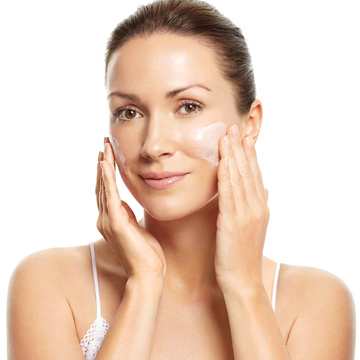
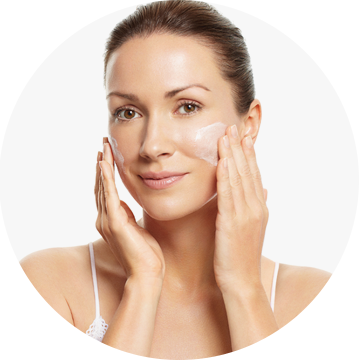
header 완성했다

diff --git a/css/global.css b/css/global.css
@@ -44,6 +44,10 @@ header .menuArea, .technologyArea, .wiseChoiceArea,.reviewArea .reviewContentsAr
  footer
 {width: calc(100% - 80px); max-width: 1200px; margin: 0 auto;}
 
+@media screen and (min-width: 801px){
+    .introduceFigureArea{width: calc(100% - 80px); max-width: 1200px; margin: 0 auto;}
+}
+
 .MobileImg{display: none !important;}
 
 /* .technologyArea, .wiseChoiceArea,.reviewArea .reviewContentsArea, .selfBeautyArea ul
@@ -58,7 +62,7 @@ header .menuArea, .technologyArea, .wiseChoiceArea,.reviewArea .reviewContentsAr
 
 /* 메인관련 */
 /* header */
-header{position: relative;}
+header{position: relative; border-bottom: 1px solid #d9d9d9;}
 header .menuArea {display: flex;}
 header .menuArea .mobileMenuArea{display: none;}
 header .menuArea > .menuContentsArea { display: flex; flex: 1; justify-content: space-between; }
@@ -66,14 +70,15 @@ header .menuArea > .menuContentsArea > *:not(nav){padding: 40px 0;}
 header .menuArea h1{height: 130px; display: flex; align-items: center; margin-right: 50px;}
 header .menuArea > .menuContentsArea >nav{}
 header .menuArea > .menuContentsArea >nav:hover + .menuBgArea{height: 245px;}
-header .menuArea > .menuContentsArea >.menuBgArea{position: absolute; left: 0; top: 130px; width: 100%; height: 0; padding: 0; background-color: white; transition-duration: 0.5s; z-index: 10;}
+header .menuArea > .menuContentsArea >.menuBgArea{position: absolute; left: 0; top: 131px; width: 100%; height: 0; padding: 0; background-color: white; transition-duration: 0.5s; z-index: 10;}
+header.mainHeader .menuArea > .menuContentsArea >.menuBgArea{top: 130px;}
 header .menuArea > .menuContentsArea >.menuBgArea:hover{height: 245px;}
 header .menuArea > .menuContentsArea >.menuBgArea.active{height: 245px;}
 header .menuArea > .menuContentsArea >.menuBgArea div{width: 100px; height: 100px; background-color: red; margin-left: 100px;}
 header .menuArea > .menuContentsArea >nav ul{display: flex; height: 100%; align-items: center;}
 header .menuArea > .menuContentsArea >nav ul > li{height: 100%; font-size: 20px; position: relative;}
 header .menuArea > .menuContentsArea >nav ul > li > a{display: flex; height: 100%; align-items: center;  padding: 0 50px;}
-header .menuArea > .menuContentsArea >nav ul > li ol{width: 165px; height: 0px; overflow: hidden; background-color: white; position: absolute; z-index: 11; transition-duration: 0.5s;}
+header .menuArea > .menuContentsArea >nav ul > li ol{width: 165px; height: 0px; overflow: hidden; background-color: white; position: absolute; top: 131px; z-index: 11; transition-duration: 0.5s;}
 header .menuArea > .menuContentsArea >nav ul > li ol li a{font-size: 18px; display: block; text-align: left; padding: 15px 0; padding-left: 50px;}
 @media screen and (min-width: 1101px){
     header .menuArea > .menuContentsArea >nav ul:hover > li ol{height: 245px;}
@@ -192,7 +197,7 @@ p.priceColorPointArea{font-size: 18px; font-weight: 500; color: #ba005f; }
     header .menuArea .mobileMenuArea .hamburgerMenuArea.active span:nth-of-type(1){transform: translateY(17px) rotate(45deg);}
     header .menuArea .mobileMenuArea .hamburgerMenuArea.active span:nth-of-type(2){opacity: 0; transition: 0.1s;}
     header .menuArea .mobileMenuArea .hamburgerMenuArea.active span:nth-of-type(3){transform: translateY(-17px) rotate(135deg);}
-    header .menuArea > .menuContentsArea{position: absolute; top: 130px; left: 0; z-index: 10; width: 100%; background-color: white; flex-direction: column; display: none;}
+    header .menuArea > .menuContentsArea{position: absolute; top: 131px; left: 0; z-index: 10; width: 100%; background-color: white; flex-direction: column; display: none;}
     header .menuArea > .menuContentsArea.active{display: flex;}
     header .menuArea > .menuContentsArea >.menuBgArea{display: none;}
     header .menuArea > .menuContentsArea > *:not(nav){padding: 0;}
@@ -215,12 +220,15 @@ p.priceColorPointArea{font-size: 18px; font-weight: 500; color: #ba005f; }
     header .menuArea > .menuContentsArea .loginArea ul li:last-of-type{margin-left: 18px;}
     header .menuArea > .menuContentsArea .loginArea ul li:not(:first-of-type) a{font-size: 26px;}
 
-
-    .paperArea > div:nth-of-type(2n + 1){width: auto; margin: 0;}
+    .paperArea{width: 100%; max-width: 500px; margin: 0 auto; justify-content: space-between;}
+    .paperArea *{font-size: 22px;}
+    .paperArea > div:nth-of-type(2n + 1){width: 55px; margin: 0;}
 }
 
 @media screen and (max-width: 800px){
-    .productCompositionArea h2{width: calc(100% - 80px);}
+    .navigationArea{font-size: 22px;}
+
+    .productCompositionArea h2,.introduceFigureArea h2, .introduceFigureArea figure figcaption{width: calc(100% - 80px); margin: 0 auto;}
     .productCompositionArea{width: 100%;}
 
     /* .acneCureArea .productCompositionArea h2{width: calc(100% - 80px); margin: 0 auto; margin-bottom: 40px;} */
@@ -246,6 +254,7 @@ p.priceColorPointArea{font-size: 18px; font-weight: 500; color: #ba005f; }
 }
 
 @media screen and (max-width: 640px){
+    .navigationArea{font-size: 3.4375vw; margin:4.6875vw auto 9.0625vw auto;}
 
 /* 컨텐츠 최대 크기 지정 width 1760px*/
 .mainTopBannerArea > a > div, header.mainHeader .menuArea, .videoArea , footer.mainFooter 
@@ -307,7 +316,8 @@ header .menuArea, .technologyArea, .wiseChoiceArea,.reviewArea .reviewContentsAr
     /* header 메뉴 */
     /* 로고 */
     header .menuArea h1{width: 22vw; height: 20vw;}
-    header .menuArea > .menuContentsArea{top: 20vw;}
+    header .menuArea > .menuContentsArea{top: 20.15vw;}
+    header.mainHeader .menuArea > .menuContentsArea{top:20vw;}
     
     header .menuArea .mobileMenuArea .shoppingBasketIcon{background-size: 5.46875vw; padding-left: 8.59375vw;}
     header .menuArea .mobileMenuArea .shoppingBasketIcon span{font-size: 3.4375vw; width: 6.5625vw; height: 6.5625vw;}
@@ -326,6 +336,9 @@ header .menuArea, .technologyArea, .wiseChoiceArea,.reviewArea .reviewContentsAr
     header .menuArea > .menuContentsArea >nav ul > li.active ol li{height: 9.6875vw;}
     header .menuArea > .menuContentsArea >nav ul > li.active ol li a{font-size: 3.7vw;}
 
+
+    .paperArea *{font-size: 3.4375vw;}
+    .paperArea > div:nth-of-type(2n + 1){width: 8.59375vw; margin: 0;}
 
 
     .QnAArea ul li h3{font-size: 3.4375vw; padding-right: 8.28125vw; padding-left: 6.25vw; box-sizing: border-box; letter-spacing: -0.15625vw;}

diff --git a/newsNoticeContents.html b/newsNoticeContents.html
@@ -13,7 +13,7 @@
 </head>
 <body>
     <div>
-        <header class="mainHeader">
+        <header>
             <div class="menuArea">
                 <h1><a href="index.html"><img src="images/main/logo.png" alt="logo"></a></h1>
                 <div class="mobileMenuArea">
@@ -73,19 +73,19 @@
 
         <section class="newsNoticeContentsArea">
             <div class="noticeContentsTitleArea">
-                <h2>2020년 여름 준비도 트리아 제모기와 함께! 회원가에 특별 추가 할인</h2>
+                <h2>2020년 여름 준비도 트리아 제모기와 함께! 회원가에 특별 추가 할인</h2>
                 <span>2020-03-02</span>
             </div>
             <div class="noticeContentsArea">
                 <img src="images/news/newsNoticeContentsImg/noticeContentImg.png" alt="noticeContentImg">
-                <p>트리아뷰티는 광(Light)기반 제품을 가정에서 경험할 수 있도록 도와드립니다.</p>
-                <p>2003년 향후 가정에서 사용할 수 있는 의료기기 관련 업계에 변화를 가져올 것이라는 확신을 가지고, 레이저 전문가들로 팀을 구성하여 트리아뷰티(Tria Beauty)를 설립하였습니다.</p>
-                <p> 편리하고 경제적인 의료기기</p>
-                <p>트리아뷰티 제품은 기술을 가정으로 옮겨와 광(Light)기반 효과를 누릴 수 있도록 도와드립니다. 트리아뷰티의 변함없는 목표는 임상적으로도 입증된 효과를 소수의 몇명이 아닌 일반</p>
-                <p>소비자가 가정에서도 비교적 저렴한 가격으로 편리하게 사용할 수 있는 광 기반의 디바이스를 개발, 출시하여 원하지 않는 털, 여드름, 눈가주름을 고민하는 세계 여성들에게 </p>
-                <p>도움을 주는 것입니다. </p>
-                <p>트리아뷰티는 지난 십여 년간 끊임없는 노력과 연구를 통해 빛을 이용한 가정에서 사용할 수 있는 의료기기들을 개발하였고 한국 식약처 허가로 그 안전성과 유효성을 인증받았습니다.</p>
-                <p>트리아 뷰티는 앞으로도 광(Light) 기반 테크놀로지를 바탕으로 빛을 통해 피부 고민을 털어주기 위해 최선을 다할 것입니다.</p>
+                <p>트리아뷰티는 광(Light)기반 제품을 가정에서 경험할 수 있도록 도와드립니다.</p>
+                <p>2003년 향후 가정에서 사용할 수 있는 의료기기 관련 업계에 변화를 가져올 것이라는 확신을 가지고, 레이저 전문가들로 팀을 구성하여 트리아뷰티(Tria Beauty)를 설립하였습니다.</p>
+                <p> 편리하고 경제적인 의료기기</p>
+                <p>트리아뷰티 제품은 기술을 가정으로 옮겨와 광(Light)기반 효과를 누릴 수 있도록 도와드립니다. 트리아뷰티의 변함없는 목표는 임상적으로도 입증된 효과를 소수의 몇명이 아닌 일반</p>
+                <p>소비자가 가정에서도 비교적 저렴한 가격으로 편리하게 사용할 수 있는 광 기반의 디바이스를 개발, 출시하여 원하지 않는 털, 여드름, 눈가주름을 고민하는 세계 여성들에게 </p>
+                <p>도움을 주는 것입니다. </p>
+                <p>트리아뷰티는 지난 십여 년간 끊임없는 노력과 연구를 통해 빛을 이용한 가정에서 사용할 수 있는 의료기기들을 개발하였고 한국 식약처 허가로 그 안전성과 유효성을 인증받았습니다.</p>
+                <p>트리아 뷰티는 앞으로도 광(Light) 기반 테크놀로지를 바탕으로 빛을 통해 피부 고민을 털어주기 위해 최선을 다할 것입니다.</p>
             </div>
             <div>
                 <a href="newsNotice.html">목록보기</a>
@@ -100,12 +100,12 @@
                 <address>080 – 369 – 3300</address>
                 <ul>
                     <li>
-                        <h3>업무시간 : </h3>
-                        <p>평일 am09~pm06 / 주말공휴일 휴일</p>
+                        <h3>업무시간 : </h3>
+                        <p>평일 am09~pm06 / 주말공휴일 휴일</p>
                     </li>
                     <li>
-                        <h3>입금 계좌 : </h3>
-                        <p>씨티은행 881-00401-243-01</p>
+                        <h3>입금 계좌 : </h3>
+                        <p>씨티은행 881-00401-243-01</p>
                     </li>
                 </ul>
             </div>
@@ -114,7 +114,7 @@
                 <h1><a href="#"><img src="images/main/fLogo.png" alt="logo"></a></h1>
                 <ul>
                     <li>
-                        <h2>트리아뷰티코리아 유한회사</h2>
+                        <h2>트리아뷰티코리아 유한회사</h2>
                     </li>
                     <li>
                         <h3>대표이사</h3>
@@ -122,7 +122,7 @@
                         <p>산딥인드라바단파텔</p>
                     </li>
                     <li>
-                        <p>서울시 서초구 강남대로 311, 9층</p>
+                        <p>서울시 서초구 강남대로 311, 9층</p>
                     </li>
                     <li>
                         <h3>메일</h3>
@@ -135,10 +135,10 @@
                         <p>101 – 86 – 54142</p>
                     </li>
                     <li>
-                        <p>의료기기판매업 신고 제 1737호</p>
+                        <p>의료기기판매업 신고 제 1737호</p>
                     </li>
                     <li>
-                        <h3>통신판매업 신고</h3>
+                        <h3>통신판매업 신고</h3>
                         <span>:</span>
                         <p>2019-서울서초-3070</p>
                     </li>

diff --git a/css/newsNotice.css b/css/newsNotice.css
@@ -31,18 +31,45 @@
 @media screen and (max-width: 1100px){
     .newsNoticeArea .noticeBoardTitleArea{display: none;}
     .newsNoticeArea .noticeBoardArea{margin-bottom: 30px;}
-    .newsNoticeArea .noticeBoardArea li:first-of-type{border-top: 1px solid #e5e5e5;}
+    .newsNoticeArea .noticeBoardArea li:first-of-type{border-top: 1px solid black;}
     .newsNoticeArea .noticeBoardArea li a{padding: 37px 0;}
-    .newsNoticeArea .noticeBoardArea li a p:nth-of-type(1){width: 50px;}
-    .newsNoticeArea .noticeBoardArea li a p:nth-of-type(2){width: calc(100% - 50px);}
-    .newsNoticeArea .noticeBoardArea li a p:nth-of-type(3){display: none;}
+    .newsNoticeArea .noticeBoardArea li a p{font-size: 22px;}
+    .newsNoticeArea .noticeBoardArea li a p:nth-of-type(1){width: 70px; text-align: left;}
+    .newsNoticeArea .noticeBoardArea li a p:nth-of-type(2){width: calc(100% - 190px); white-space: nowrap; overflow: hidden; text-overflow: ellipsis;}
+    .newsNoticeArea .noticeBoardArea li a p:nth-of-type(3){width: 120px; text-align: right;}
+    /* .newsNoticeArea .noticeBoardArea li a p:nth-of-type(3){display: none;} */
     
 
     .newsNoticeContentsArea .noticeContentsTitleArea{padding: 20px 0;}
     .newsNoticeContentsArea .noticeContentsArea{padding: 0; padding-bottom: 50px;}
 }
 
-@media screen and (max-width: 768px){
-    .newsNoticeContentsArea .noticeContentsTitleArea h2{font-size: 19px;}
-    .newsNoticeContentsArea .noticeContentsTitleArea span{display: none;}
+@media screen and (max-width: 800px){
+    .newsNoticeContentsArea .noticeContentsTitleArea{flex-direction: column; margin-bottom: 40px;}
+    .newsNoticeContentsArea .noticeContentsTitleArea h2{font-size: 28px; margin-bottom: 30px;}
+    .newsNoticeContentsArea .noticeContentsTitleArea span{font-size: 20px;}
+    .newsNoticeContentsArea .noticeContentsArea{margin-bottom: 40px;}
+    .newsNoticeContentsArea .noticeContentsArea p{font-size: 26px; line-height: 1.6153;}
+
+    .newsNoticeContentsArea a{display: block; width: 100%; font-size: 30px; line-height: 80px;}
+
+    /* .newsNoticeArea .noticeBoardArea li a p:nth-of-type(1){width: 70px; text-align: left;} */
+    /* .newsNoticeArea .noticeBoardArea li a p:nth-of-type(2){width: calc(100% - 190px); white-space: nowrap; overflow: hidden; text-overflow: ellipsis;} */
+    /* .newsNoticeArea .noticeBoardArea li a p:nth-of-type(3){width: 120px; text-align: right;} */
+}
+
+@media screen and (max-width: 640px){
+    .newsNoticeArea .noticeBoardArea li a{padding: 5.78125vw 0;}
+    .newsNoticeArea .noticeBoardArea li a p{font-size: 3.4375vw;}
+    .newsNoticeArea .noticeBoardArea li a p:nth-of-type(1){width: 10.9375vw;}
+    .newsNoticeArea .noticeBoardArea li a p:nth-of-type(2){width: calc(100% - 29.6875vw);}
+    .newsNoticeArea .noticeBoardArea li a p:nth-of-type(3){width: 18.75vw;}
+
+    .newsNoticeContentsArea .noticeContentsTitleArea{margin-bottom: 6.25vw;}
+    .newsNoticeContentsArea .noticeContentsTitleArea h2{font-size: 4.375vw; margin-bottom: 4.6875vw;}
+    .newsNoticeContentsArea .noticeContentsTitleArea span{font-size: 3.125vw;}
+    .newsNoticeContentsArea .noticeContentsArea{margin-bottom: 6.25vw;}
+    .newsNoticeContentsArea .noticeContentsArea p{font-size: 4.0625vw; }
+
+    .newsNoticeContentsArea a{font-size: 4.6875vw; line-height: 12.5vw;}
 }

diff --git a/css/news.css b/css/news.css
@@ -31,17 +31,19 @@
     
 }
 @media screen and (max-width: 800px){
-    .newsArea ul{justify-content: center; margin-bottom: 0;}
+    /* .newsArea ul{justify-content: center; margin-bottom: 0;}
     .newsArea ul li{width: 100%; }
-    .newsArea ul li:nth-last-of-type(n){margin-bottom: 30px;}
+    .newsArea ul li:nth-last-of-type(n){margin-bottom: 30px;} */
+
     /* .newsArea ul li:nth-last-of-type(2){margin-bottom: 30px;} */
     /* .newsArea ul li:nth-of-type(n + 5){display: none;} */
-    .paperArea a{width: 70px; line-height: 70px; border: 1px solid #e5e5e5;}
-    .paperArea a:hover{border: 1px solid black; color: black;}
-    .paperArea > div:nth-of-type(2){display: flex;}
-    .paperArea > div:nth-of-type(2) a{width: 70px;}
-    .paperArea > div:nth-of-type(2) a.active{border: 1px solid black;}
-    .paperArea > div:nth-of-type(2) a:nth-of-type(n + 6){display: none;}
-    .paperArea > div:nth-of-type(1) a:first-of-type{display: none;}
-    .paperArea > div:nth-of-type(3) a:last-of-type{display: none;}
+
+    /* .paperArea a{width: 70px; line-height: 70px; border: 1px solid #e5e5e5;} */
+    /* .paperArea a:hover{border: 1px solid black; color: black;} */
+    /* .paperArea > div:nth-of-type(2){display: flex;} */
+    /* .paperArea > div:nth-of-type(2) a{width: 70px;} */
+    /* .paperArea > div:nth-of-type(2) a.active{border: 1px solid black;} */
+    /* .paperArea > div:nth-of-type(2) a:nth-of-type(n + 6){display: none;} */
+    /* .paperArea > div:nth-of-type(1) a:first-of-type{display: none;} */
+    /* .paperArea > div:nth-of-type(3) a:last-of-type{display: none;} */
 }

diff --git a/orderCompleted.html b/orderCompleted.html
@@ -13,7 +13,7 @@
 </head>
 <body>
     <div>
-        <header class="mainHeader">
+        <header>
             <div class="menuArea">
                 <h1><a href="index.html"><img src="images/main/logo.png" alt="logo"></a></h1>
                 <div class="mobileMenuArea">
@@ -77,15 +77,15 @@
                         <p>장바구니</p>
                     </li>
                     <li>
-                        <img src="images/paymentProgress/orderFormIcon.png" alt="주문서 작성 icon">
+                        <img src="images/paymentProgress/orderFormCKIcon.png" alt="주문서 작성 icon">
                         <p>주문서 작성</p>
                     </li>
                     <li>
-                        <img src="images/paymentProgress/paymentCompletedIcon.png" alt="결제완료 icon">
+                        <img src="images/paymentProgress/paymentCompletedCKIcon.png" alt="결제완료 icon">
                         <p>결제완료</p>
                     </li>
                     <li>
-                        <img src="images/paymentProgress/orderCompletedIcon.png" alt="주문완료 icon">
+                        <img src="images/paymentProgress/orderCompletedCKIcon.png" alt="주문완료 icon">
                         <p>주문완료</p>
                     </li>
                 </ul>

diff --git a/css/orderCompleted.css b/css/orderCompleted.css
@@ -1,3 +1,5 @@
+.orderCompletedArea .paymentProgressArea{width: 100%;}
+
 /* 주문완료 - 주문 상품 정보 */
 /* 주문완료 상품 정보 타이틀 */
 .orderProductInformationTitleArea{}
@@ -11,6 +13,7 @@
 .orderProductInformationTitleArea ul li:nth-of-type(3){width: 20%;}
 .orderProductInformationTitleArea ul li:nth-of-type(4){width: 15%;}
 .orderProductInformationTitleArea ul li h3{font-size: 16PX; font-weight: 400; line-height: 50px;}
+.orderCompletedArea .paymentProgressArea ul li:not(:first-of-type) p{color: black;}
 
 
 /*주문완료 주문 리스트 */
@@ -88,3 +91,8 @@
 .orderProductInListArea .shoppingBasketFinalArea div button{width: 105px;}
 .orderProductInListArea .shoppingBasketFinalArea div a{width: 110px;}
 .orderProductInListArea .shoppingBasketFinalArea div input[type="button"]{width: 90px; color: white; border: 1px solid black; background-color: black;}
+
+
+@media screen and (max-width: 1200px){
+    .priceArea > div::before{left: -14.7321vw;}
+}

diff --git a/introduceAboutUs.html b/introduceAboutUs.html
@@ -13,7 +13,7 @@
 </head>
 <body>
     <div>
-        <header class="mainHeader">
+        <header>
             <div class="menuArea">
                 <h1><a href="index.html"><img src="images/main/logo.png" alt="logo"></a></h1>
                 <div class="mobileMenuArea">

diff --git a/introduceAcneCure.html b/introduceAcneCure.html
@@ -13,7 +13,7 @@
 </head>
 <body>
     <div>
-        <header class="mainHeader">
+        <header>
             <div class="menuArea">
                 <h1><a href="index.html"><img src="images/main/logo.png" alt="logo"></a></h1>
                 <div class="mobileMenuArea">

diff --git a/introduceCosmetic.html b/introduceCosmetic.html
@@ -13,7 +13,7 @@
 </head>
 <body>
     <div>
-        <header class="mainHeader">
+        <header>
             <div class="menuArea">
                 <h1><a href="index.html"><img src="images/main/logo.png" alt="logo"></a></h1>
                 <div class="mobileMenuArea">

diff --git a/introduceLaser.html b/introduceLaser.html
@@ -13,7 +13,7 @@
 </head>
 <body>
     <div>
-        <header class="mainHeader">
+        <header>
             <div class="menuArea">
                 <h1><a href="index.html"><img src="images/main/logo.png" alt="logo"></a></h1>
                 <div class="mobileMenuArea">

diff --git a/introduceSkin.html b/introduceSkin.html
@@ -13,7 +13,7 @@
 </head>
 <body>
     <div>
-        <header class="mainHeader">
+        <header>
             <div class="menuArea">
                 <h1><a href="index.html"><img src="images/main/logo.png" alt="logo"></a></h1>
                 <div class="mobileMenuArea">

diff --git a/login.html b/login.html
@@ -13,7 +13,7 @@
 </head>
 <body>
     <div>
-        <header class="mainHeader">
+        <header>
             <div class="menuArea">
                 <h1><a href="index.html"><img src="images/main/logo.png" alt="logo"></a></h1>
                 <div class="mobileMenuArea">
